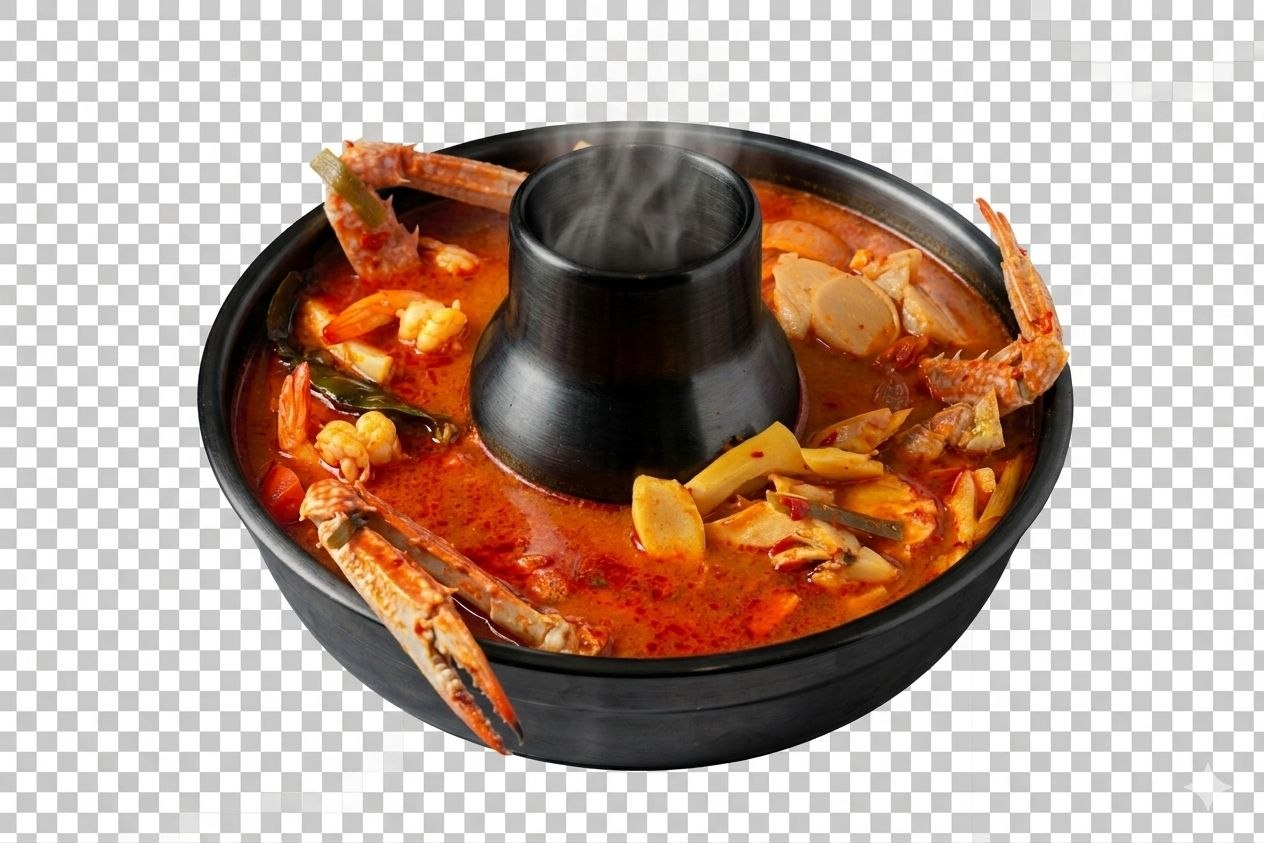
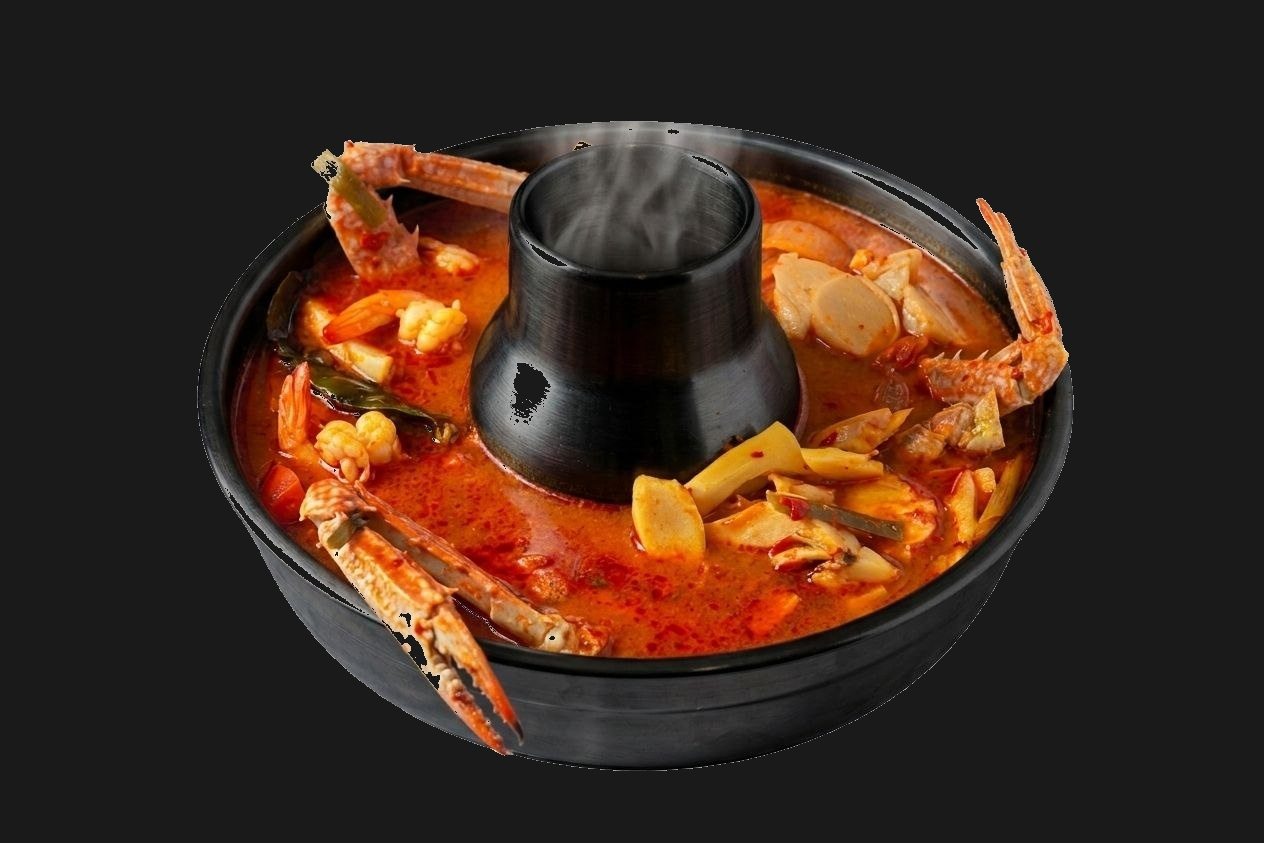
v13: Remove checkerboard bg from soup image, dark bg behind featured

diff --git a/index.html b/index.html
@@ -504,6 +504,12 @@ body {
 }
 .featured-img {
   flex: 1;
+  background: #141414;
+  border-radius: 16px;
+  display: flex;
+  align-items: center;
+  justify-content: center;
+  padding: 4px;
 }
 .dish-img-featured {
   width: 100%;